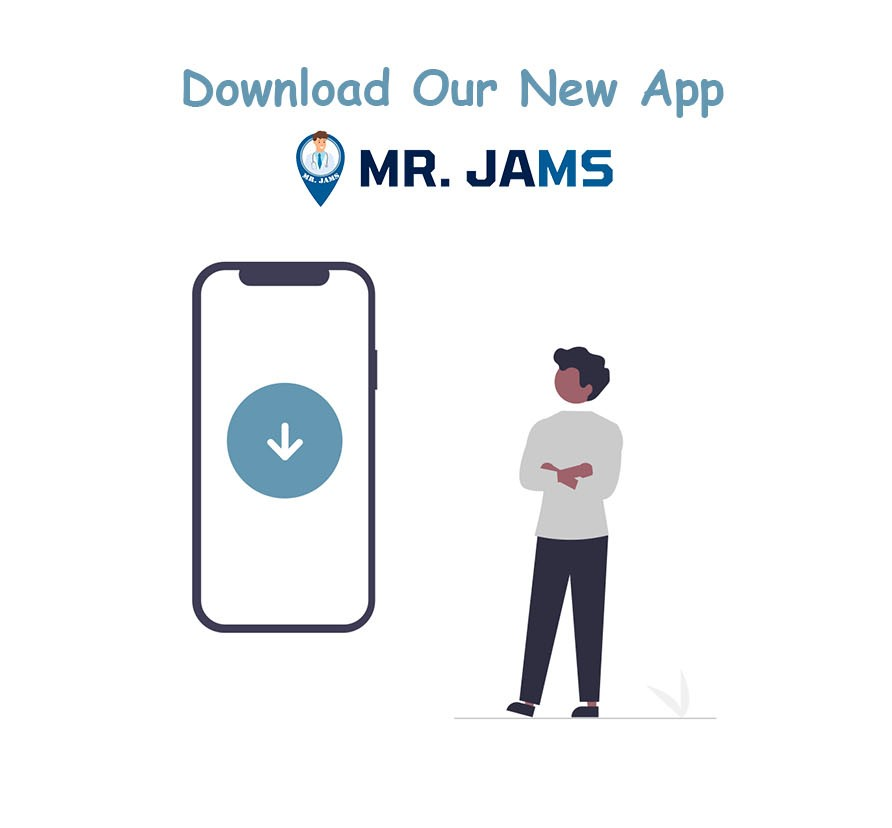
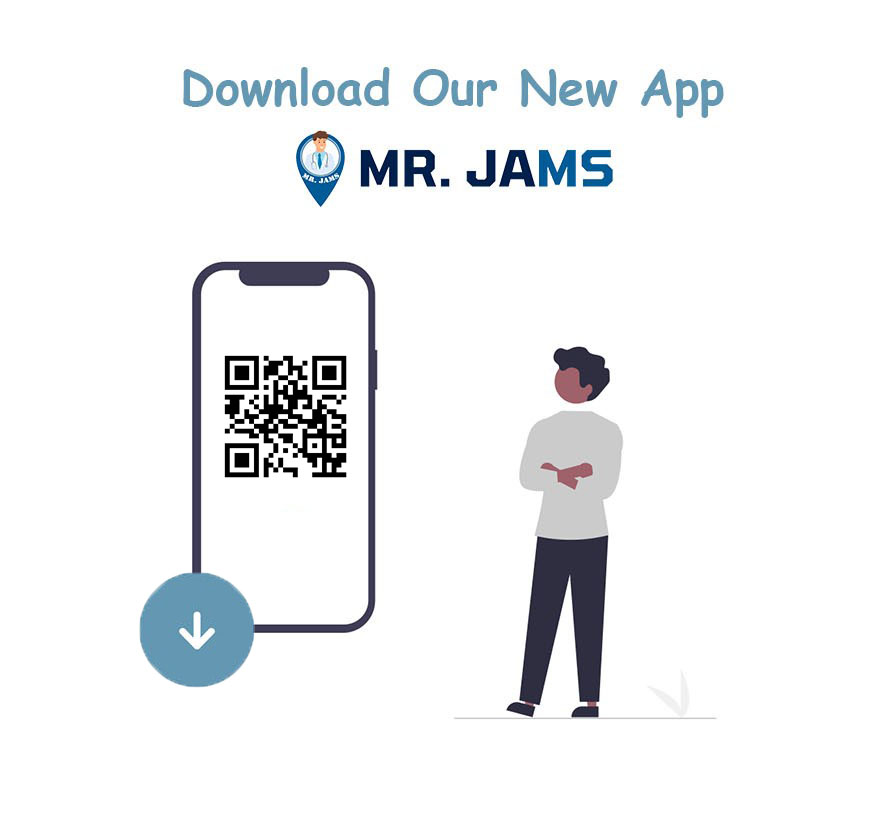
May4-3PM

Changed region(s): [[0.2422, 0.4227, 0.3935, 0.6039], [0.1513, 0.6944, 0.3027, 0.8454]]

diff --git a/public/css/customer/download.css b/public/css/customer/download.css
@@ -1,0 +1,7 @@
+.center {
+    margin-top: 30px;
+    display: block;
+    margin-left: auto;
+    margin-right: auto;
+    width: 40%;
+  }

diff --git a/resources/views/publicViews/downloadApp.blade.php b/resources/views/publicViews/downloadApp.blade.php
@@ -1,0 +1,29 @@
+<!DOCTYPE html>
+<html lang="en">
+<head>
+    <meta charset="UTF-8">
+    <meta name="viewport" content="width=device-width, initial-scale=1.0">
+    <meta http-equiv="X-UA-Compatible" content="ie=edge">
+    <link rel="icon" href="{{asset('./images/mrjams/mr-jams-logo.png')}}">
+    <title>MR. JAMS - Download</title>
+
+    <link rel="stylesheet" href="{{asset('./css/customer/download.css')}}">
+
+     <!-- {{-- bootstrap 5.1.1 --}} -->
+
+     <link rel="stylesheet" href="https://cdn.jsdelivr.net/npm/bootstrap@5.1.1/dist/css/bootstrap.min.css" integrity="sha384-F3w7mX95PdgyTmZZMECAngseQB83DfGTowi0iMjiWaeVhAn4FJkqJByhZMI3AhiU" crossorigin="anonymous">
+     <script src="https://cdn.jsdelivr.net/npm/@popperjs/core@2.9.2/dist/umd/popper.min.js" integrity="sha384-IQsoLXl5PILFhosVNubq5LC7Qb9DXgDA9i+tQ8Zj3iwWAwPtgFTxbJ8NT4GN1R8p" crossorigin="anonymous"></script>
+     <script src="https://cdn.jsdelivr.net/npm/bootstrap@5.1.1/dist/js/bootstrap.min.js" integrity="sha384-skAcpIdS7UcVUC05LJ9Dxay8AXcDYfBJqt1CJ85S/CFujBsIzCIv+l9liuYLaMQ/" crossorigin="anonymous"></script>
+
+     
+</head>
+<body>
+
+
+    <div>
+        <img src="{{asset('images/mrjams/downloadSize.jpg') }}" alt="" class="center">
+        <button onclick="history.back()" type="button" class="btn btn-primary mx-auto d-block" id="back_btn"> <i class="fa fa-arrow-circle-left" aria-hidden="true"></i> Back</button>
+    </div>
+    
+</body>
+</html>

diff --git a/routes/web.php b/routes/web.php
@@ -82,6 +82,10 @@ Route::group(['prefix' => 'public', 'middleware' => ['role_public'], 'as' => 'pu
     Route::get('/about', function () {
         return view('publicViews.about_p');
     })->name('about');
+
+    Route::get('/download', function () {
+        return view('publicViews.downloadApp');
+    })->name('download');
 });
 
 Route::group(['prefix' => 'clinic_verification', 'middleware' => ['auth', 'role_public'], 'as' => 'clinic_verification.'], function () {

diff --git a/resources/views/publicViews/about_p.blade.php b/resources/views/publicViews/about_p.blade.php
@@ -54,7 +54,7 @@
         <div class="hero-content-area1">
           <h1>Your Health is our Priority!</h1>
           <h3>Just a Reminder, It's Time For Your Appointment</h3>
-          <a href="#" class="btn">Download Now</a>
+          <a href="/public/download" class="btn">Download Now</a>
         </div>
     </section>
     

diff --git a/resources/views/customerViews/about.blade.php b/resources/views/customerViews/about.blade.php
@@ -15,7 +15,7 @@
     <div class="hero-content-area1">
       <h1>Your Health is our Priority!</h1>
       <h3>Just a Reminder, It's Time For Your Appointment</h3>
-      <a href="#" class="btn">Download Now</a>
+      <a href="/public/download" class="btn">Download Now</a>
     </div>
 </section>
 

diff --git a/resources/views/role_registration/emails/welcome.blade.php b/resources/views/role_registration/emails/welcome.blade.php
@@ -26,7 +26,6 @@
             </div>
         </div>
     </div>
-    {{-- #6497B1 --}}
 
 </body>
 </html>
